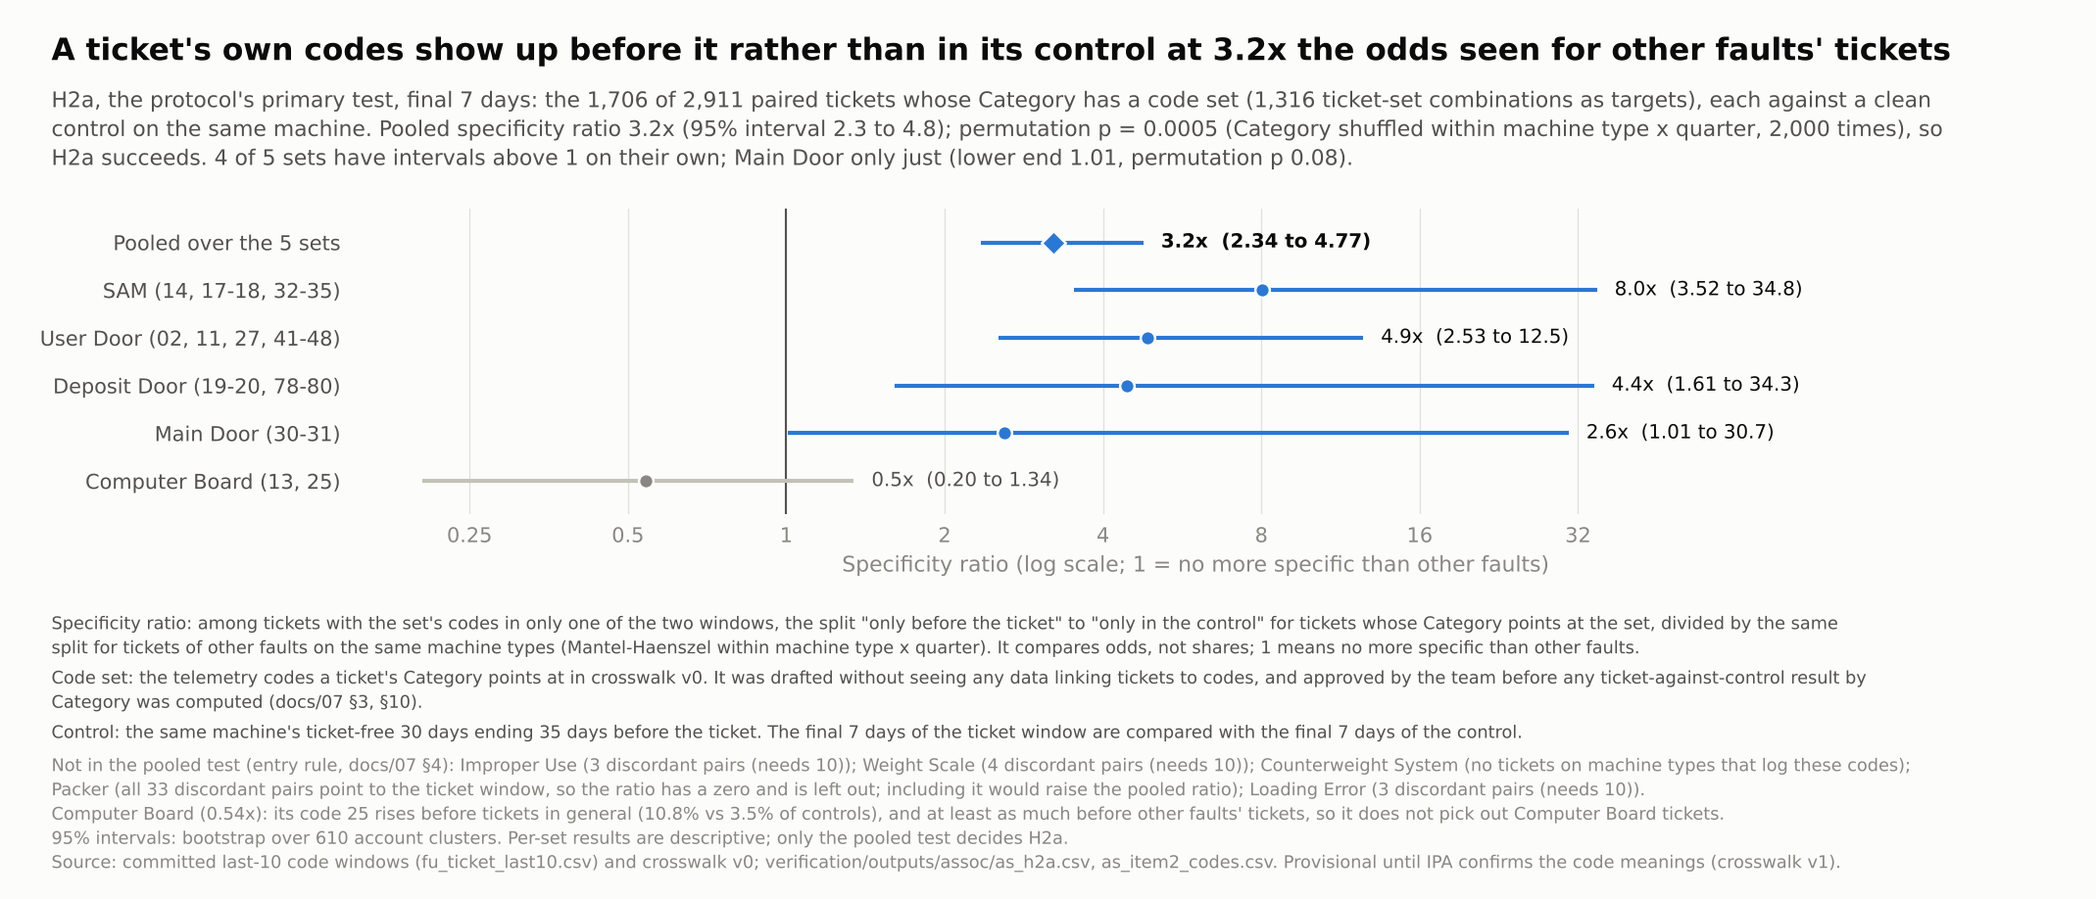
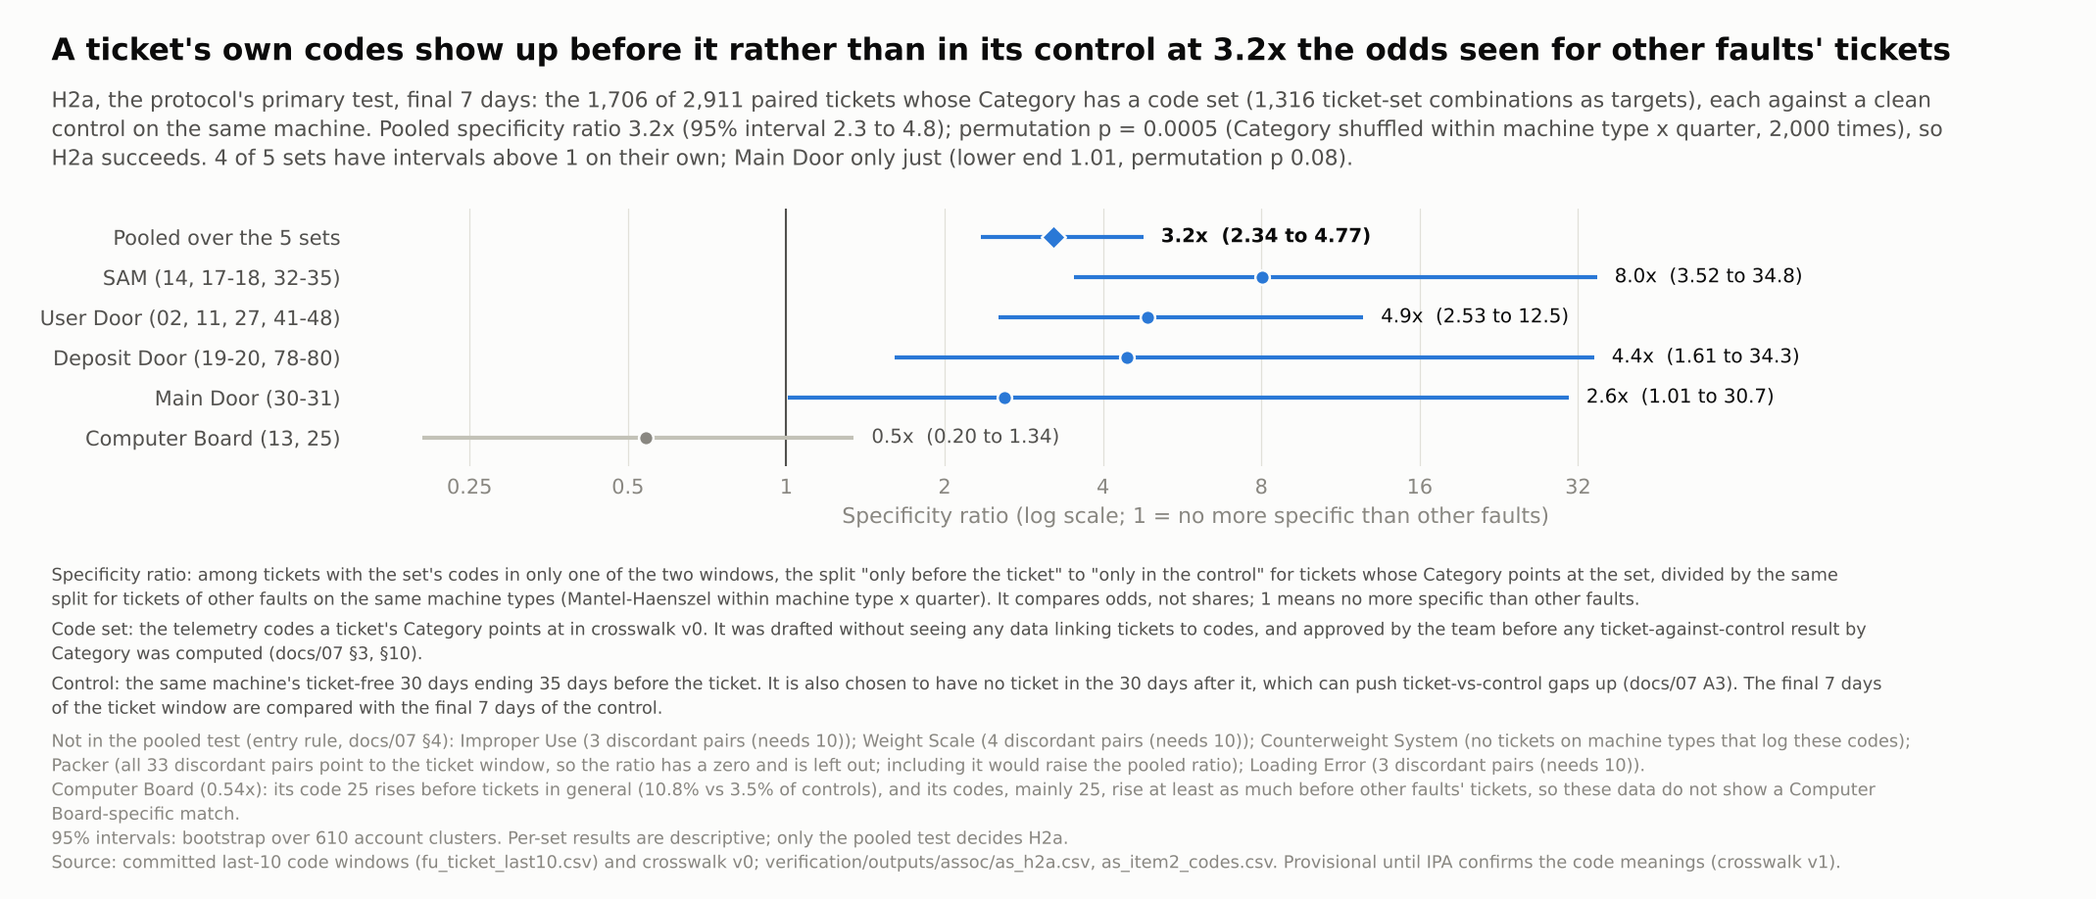
Association charts: apply the independent review's confirmed findings
Three reviewers (numbers, wording, readability), each finding re-checked by a separate
refuter; 21 of 41 survived and are applied here.
- as_05: title and subtitle state the item 4 figures as lower bounds ("at least",
  "if the control is a fair stand-in"), label the unrelated-set line exploratory and stop
  calling it a share of the blue line; y-axis names the measure; note that the 6 h figure
  is not a tighter whole-week bound; capped interval no longer runs into its label
- as_06: "every sensitivity variant run so far" (13 run, 11 drawn), with checks that the
  undrawn S3 upper-bound variants lie in range and above 1; pending S2/S12 explained
- as_07: title scoped to H1 and the per-set results; 267 split into 262 + 5 unknown type
- as_01: Computer Board note worded as "not shown", for the set (13, 25)
- as_02: linker precision note at 2 h and micro-averaged; series named at the 7-day end
  so the 30-day points no longer look like a legend
- as_08: span-rule wording for 146; only the door rows the title discusses are blue
- assoc.py: control definitions state the no-ticket-after selection (docs/07 A3); negative
  control, owed-to and sensitivity definitions match the protocol's scope
- docs/08 figure captions follow the new titles

Claude-Session: https://claude.ai/code/session_01XBD7pXL4msNy4bnuJzjzhZ

diff --git a/viz/association/assoc.py b/viz/association/assoc.py
@@ -20,8 +20,10 @@ K7, K30 = 168.0, 720.0
 TARGET_DEFINITION = ('Code set: the telemetry codes a ticket\'s Category points at in crosswalk v0. It was drafted '
                      'without seeing any data linking tickets to codes, and approved by the team before any '
                      'ticket-against-control result by Category was computed (docs/07 §3, §10).')
-CONTROL_DEFINITION = ('Control: the same machine\'s ticket-free 30 days ending 35 days before the ticket. The final 7 '
-                      'days of the ticket window are compared with the final 7 days of the control.')
+CONTROL_DEFINITION = ('Control: the same machine\'s ticket-free 30 days ending 35 days before the ticket. It is also '
+                      'chosen to have no ticket in the 30 days after it, which can push ticket-vs-control gaps up '
+                      '(docs/07 A3). The final 7 days of the ticket window are compared with the final 7 days of the '
+                      'control.')
 MOR_DEFINITION = ('Matched odds ratio: tickets with the codes present only before the ticket, divided by tickets with '
                   'them present only in the control. Above 1 means present before tickets more often.')
 SPECIFICITY_DEFINITION = ('Specificity ratio: among tickets with the set\'s codes in only one of the two windows, '
@@ -30,18 +32,22 @@ SPECIFICITY_DEFINITION = ('Specificity ratio: among tickets with the set\'s code
                           'machine types (Mantel-Haenszel within machine type x quarter). It compares odds, not '
                           'shares; 1 means no more specific than other faults.')
 RECENCY_CONTROL_DEFINITION = ('Control: the same machine\'s ticket-free 30 days ending 35 days before the ticket. '
-                              'Each point compares the same final span of both windows.')
+                              'It is also chosen to have no ticket in the 30 days after it, which can push '
+                              'ticket-vs-control gaps up (docs/07 A3). Each point compares the same final span of both '
+                              'windows.')
 BUCKET_DEFINITION = ('Bucket: the team\'s provisional grouping of telemetry codes (e.g. Door issue, Mechanical fault), not '
                      'yet confirmed by IPA. A bucket is present when any of its codes was logged in the window\'s final '
                      '7 days.')
-NEGATIVE_CONTROL_DEFINITION = ('Negative control: the stock-out codes (03, 77). No Category except Loading Error points '
-                               'at them, so they should not rise if the comparison is fair.')
+NEGATIVE_CONTROL_DEFINITION = ('Negative control: the stock-out codes (03, 77), which no Category except Loading Error '
+                               'points at. A rise would signal a generic "machine in trouble" or period effect; '
+                               'restocking visits can also log them (docs/07 §4).')
 OWED_DEFINITION = ('Share owed to whatever led to the ticket: of tickets with their own code set in the final 7 days, '
                    'the share with an own code in the final k hours that the control says would not otherwise be there, '
                    '(pT(k) - pC(k)) / pT(7 days). It is a lower bound if the control is valid, and it is not specific '
-                   'to the Category.')
+                   'to the Category: it counts everything that sets the final hours apart from the control, including '
+                   'codes the call itself produced.')
 SENSITIVITY_DEFINITION = ('Sensitivity check: the same pooled test re-run with one pre-specified change to the '
-                          'tickets, the windows or the clustering (docs/07 §6).')
+                          'tickets, the windows, the outcome coding, the code set or the clustering (docs/07 §6).')
 LOGS_DEFINITION = ('Logs its own code set: the ticket\'s machine type shows that code set in the clean control windows '
                    'of at least 5 other machines of the type (docs/07 A10). Otherwise the codes can neither confirm nor '
                    'contradict the Category.')

diff --git a/viz/association/as_05_signal_bounds.py b/viz/association/as_05_signal_bounds.py
@@ -43,16 +43,17 @@ def plot(out_dir=assoc.FIG_DIR):
     style.check('as_05 unrelated maximum = exploratory tightest bound', tight_u.estimate, y_unr.max(), 1e-9)
     style.check('as_05 week lower bound = (pT - pC) / pT at 7 days', week.estimate, y_own[-1], 1e-9)
     style.check('as_05 week upper bound = (1 - pC) / pT', week.upper_bound, min(1, (1 - week.pC) / week.pT), 1e-9)
-    title = (f'For {tight.estimate:.0%} of tickets with their own codes, the final {LABELS[tight.k]} hold one that '
-             f'would not otherwise be there; for unrelated codes, {tight_u.estimate:.0%}')
+    title = (f'For at least {tight.estimate:.0%} of tickets with their own codes, the final {LABELS[tight.k]} hold one '
+             f'that would not otherwise be there; for unrelated codes (exploratory), {tight_u.estimate:.0%}')
 
     fig, ax = style.figure(max(10.5, 0.12 * len(title) + 2 * style.MARGIN), 6.2)
     x = np.arange(len(own))
     ax.plot(x, 100 * y_own, color=style.BLUE, lw=2, marker='o', ms=6, zorder=3)
     ax.plot(x, 100 * y_unr, color=style.GRAY, lw=2, marker='o', ms=6, zorder=2)
-    ax.vlines(x[j], 100 * tight.ci_lo, 100 * tight.ci_hi, color=style.BLUE, lw=2, zorder=3)
+    ax.errorbar(x[j], 100 * y_own[j], yerr=[[100 * (y_own[j] - tight.ci_lo)], [100 * (tight.ci_hi - y_own[j])]],
+                fmt='none', ecolor=style.BLUE, elinewidth=2, capsize=4, zorder=3)
     for xi, a in zip(x, y_own):
-        ax.text(xi, 100 * a + 2.5, f'{a:.0%}', ha='center', va='bottom', fontsize=9.5,
+        ax.text(xi, 100 * (tight.ci_hi if xi == x[j] else a) + 2.5, f'{a:.0%}', ha='center', va='bottom', fontsize=9.5,
                 color=style.INK, weight='bold' if xi == x[j] else 'normal')
     for xi, a in zip(x, y_unr):
         ax.text(xi, 100 * a - 2.5, f'{a:.0%}', ha='center', va='top', fontsize=9.5, color=style.INK2)
@@ -77,16 +78,19 @@ def plot(out_dir=assoc.FIG_DIR):
     style.pct_axis(ax.yaxis)
     style.style_axes(ax, grid='y', baseline='bottom')
     ax.set_xlabel('Final span before the ticket')
-    ax.set_ylabel('Share of tickets with own codes in 7 days')
+    ax.set_ylabel('Share owed to whatever\nled to the ticket')
     style.frame(
         fig, title,
         f'Base: the {int(week.n_pairs):,} tickets whose Category has a code set their machine type logs, counting those '
-        f'with an own code in the final 7 days ({week.pT:.0%} of them). The blue line peaks at {LABELS[tight.k]} '
-        f'({tight.estimate:.0%}, 95% {tight.ci_lo:.0%} to {tight.ci_hi:.0%}); the gray line shows how much of it any '
-        f'code set would show before a ticket. Over the whole week, between {week.estimate:.0%} and '
+        f'with an own code in the final 7 days ({week.pT:.0%} of them). The blue line, a lower bound, peaks at '
+        f'{LABELS[tight.k]} ({tight.estimate:.0%}, 95% {tight.ci_lo:.0%} to {tight.ci_hi:.0%}); the gray line is the '
+        f'same measure for codes of unrelated sets on the same tickets (exploratory), a rough guide to generic activity '
+        f'before any ticket. If the control is a fair stand-in, over the whole week between {week.estimate:.0%} and '
         f'{week.upper_bound:.0%} of these tickets would have had no own code at all without whatever led to the ticket.',
         definitions=[assoc.OWED_DEFINITION, assoc.TARGET_DEFINITION, assoc.RECENCY_CONTROL_DEFINITION],
-        notes=['The peak is the best of six windows, which makes it slightly optimistic. Bounds, not estimates: both '
+        notes=[f'The {LABELS[tight.k]} figure is not a tighter version of the whole-week {week.estimate:.0%}: some of '
+               f'these tickets would still have had an own code earlier in the week. '
+               'The peak is the best of six windows, which makes it slightly optimistic. Bounds, not estimates: both '
                'assume the control is a fair stand-in, and docs/07 A3 lists two ways it may not be, pushing in '
                'opposite directions. Whether the codes match the Category is H2a (chart as_01).',
                assoc.source('item4')])

diff --git a/viz/association/as_02_recency.py b/viz/association/as_02_recency.py
@@ -56,22 +56,24 @@ def plot(out_dir=assoc.FIG_DIR):
              f'{first.pC:.0%} of controls')
 
     fig, ax = style.figure(max(10.5, 0.12 * len(title) + 2 * style.MARGIN), 6.2)
-    x = np.arange(len(t))
+    x = np.arange(len(t), dtype=float)
     line = (t.k <= assoc.K7).to_numpy()  # k <= 7 d: one fixed set of pairs; 30 d: last-10 list, drawn apart
+    x[~line] += 1.2  # room for the series names between the 7-day end and the 30-day column
     ax.plot(x[line], 100 * t.pT[line], color=style.BLUE, lw=2, marker='o', ms=6, zorder=3)
     ax.plot(x[line], 100 * t.pC[line], color=style.GRAY, lw=2, marker='o', ms=6, zorder=2)
     ax.scatter(x[~line], 100 * t.pT[~line], s=40, facecolors=style.SURFACE, edgecolors=style.BLUE, linewidths=2,
                zorder=3)
     ax.scatter(x[~line], 100 * t.pC[~line], s=40, facecolors=style.SURFACE, edgecolors=style.GRAY, linewidths=2,
                zorder=2)
-    for xi, a, b in zip(x, t.pT, t.pC):
+    for xi, a, b, lin in zip(x, t.pT, t.pC, line):
         ax.text(xi, 100 * a + 2.5, f'{a:.0%}', ha='center', va='bottom', fontsize=9.5, color=style.INK)
-        ax.text(xi, 100 * b - 3, f'{b:.0%}', ha='center', va='top', fontsize=9.5, color=style.INK2)
-    ax.text(x[-1] + 0.15, 100 * t.pT.iloc[-1], 'Before the ticket', color=style.BLUE, va='center', fontsize=10)
-    ax.text(x[-1] + 0.15, 100 * t.pC.iloc[-1], 'Control, 35 days earlier', color=style.INK2, va='center', fontsize=10)
+        ax.text(xi, 100 * b - (3 if lin else 4.5), f'{b:.0%}', ha='center', va='top', fontsize=9.5, color=style.INK2)
+    xe = x[line][-1] + 0.2
+    ax.text(xe, 100 * t.pT[line].iloc[-1], 'Before the ticket', color=style.BLUE, va='center', fontsize=10)
+    ax.text(xe, 100 * t.pC[line].iloc[-1], 'Control, 35 days earlier', color=style.INK2, va='center', fontsize=10)
     ax.set_xticks(x)
     ax.set_xticklabels([LABELS[k] if k <= assoc.K7 else '30 days\n(last-10 list)' for k in t.k], color=style.INK2)
-    ax.set_xlim(-0.4, len(t) + 1.4)
+    ax.set_xlim(-0.4, x[-1] + 0.6)
     ax.set_ylim(-8, 90)
     style.pct_axis(ax.yaxis)
     style.style_axes(ax, grid='y', baseline='bottom')
@@ -95,9 +97,10 @@ def plot(out_dir=assoc.FIG_DIR):
                f'dropped from both windows, the set is present within 6 hours before {g30.p_guard:.0%} of tickets and '
                f'{g30.p_control_guard_lo:.0%}-{g30.p_control_guard_hi:.0%} of controls, and the guard bands leave the '
                f'pooled H2a result of chart as_01 at {g_lo:.1f}x to {g_hi:.1f}x.',
-               f'For a linker (exploratory): among tickets showing a set\'s codes in the final 30 minutes, '
-               f'{mr.loc[(0.5, "ticket"), "precision"]:.0%} have the matching Category (control windows '
-               f'{mr.loc[(0.5, "control"), "precision"]:.0%}); over 7 days, '
+               f'For a linker (exploratory; micro-averaged over code sets, so a ticket counts once for each set '
+               f'whose codes it shows): of the set-code hits in the final 2 hours, '
+               f'{mr.loc[(2.0, "ticket"), "precision"]:.0%} are on tickets whose Category points at that set (control '
+               f'windows {mr.loc[(2.0, "control"), "precision"]:.0%}); over 7 days, '
                f'{mr.loc[(assoc.K7, "ticket"), "precision"]:.0%} ({mr.loc[(assoc.K7, "control"), "precision"]:.0%}). '
                f'The short look-back is more precise but finds the codes for fewer tickets (the blue line).',
                assoc.source('recency', 'item4', 'guard', 'match_rates')])

diff --git a/viz/association/as_06_robustness.py b/viz/association/as_06_robustness.py
@@ -59,8 +59,13 @@ def plot(out_dir=assoc.FIG_DIR):
     up = [row(s, p, assoc.K7)[0] for p in ('S3 guard 0.5 h, control upper', 'S3 guard 1 h, control upper')]
     s4 = row(s, 'S4 ', assoc.K30)
     style.check('as_06 S4 at 30 days reaches 1', 1, int(np.exp(s4[1]) < 1))
-    title = (f'At 7 days the main result holds in all {len(rows) - 1} sensitivity variants run so far: the pooled '
-             f'specificity ratio stays between {ratios.min():.1f}x and {ratios.max():.1f}x')
+    ran = s[(s.k == assoc.K7) & s.h2a.notna() & (s.variant != 'primary')]
+    style.check('as_06 variants run = drawn + the two S3 upper-bound rows', len(rows) - 1 + 2, len(ran))
+    style.check('as_06 every variant run has its interval above 1', 1, int((np.exp(ran.h2a_lo) > 1).all()))
+    style.check('as_06 undrawn variants inside the drawn range', 1,
+                int(ratios.min() <= np.exp(ran.h2a).min() and np.exp(ran.h2a).max() <= ratios.max()))
+    title = (f'At 7 days the main result holds in every sensitivity variant run so far: the pooled specificity ratio '
+             f'stays between {ratios.min():.1f}x and {ratios.max():.1f}x')
 
     n = len(rows)
     fig, ax = style.figure(max(11.0, 0.12 * len(title) + 2 * style.MARGIN), 3.4 + 0.42 * n)
@@ -94,8 +99,9 @@ def plot(out_dir=assoc.FIG_DIR):
                f'{np.exp(up[0]):.2f}x and {np.exp(up[1]):.2f}x. Truncated windows (S6): most added pairs have a control '
                f'window with no events at all, so this mainly checks that empty controls do not reverse the result.',
                f'At 30 days (secondary) one check reaches 1: the ticket-free lead-in (S4) gives {np.exp(s4[0]):.2f}x '
-               f'({np.exp(s4[1]):.2f} to {np.exp(s4[2]):.2f}). Pending: text-flag exclusions (S2), the interval-based '
-               f'clean rule (S10) and crosswalk v1 (S12). S9 (ticket side only) and S11 (calendar drift) give no ratio.',
+               f'({np.exp(s4[1]):.2f} to {np.exp(s4[2]):.2f}). Pending: text-flag exclusions (S2, the check on agreement '
+               f'built in if technicians read clearView when setting Category), the interval-based clean rule (S10) '
+               f'and crosswalk v1 with IPA\'s code meanings (S12). S9 (ticket side only) and S11 (calendar drift) give no ratio.',
                assoc.source('sensitivities', 'h2a')])
     return [style.save(fig, out_dir / PNG)]
 

diff --git a/viz/association/as_07_coverage.py b/viz/association/as_07_coverage.py
@@ -61,6 +61,7 @@ def plot(out_dir=assoc.FIG_DIR):
     gap = (alltypes - emit.reindex(alltypes.index).fillna(0)).astype(int)
     by_fam = gap.groupby([family(t) for t in gap.index]).sum()
     by_fam = by_fam[by_fam > 0].sort_values(ascending=False)
+    n_unk = int(gap.get('Unknown', 0))
     style.check('as_07 not checkable = mapped - checkable', mapped - checkable, int(by_fam.sum()))
     xw = pd.read_csv(assoc.ROOT / 'verification' / 'reference' / 'crosswalk_v0.csv', dtype=str,
                      keep_default_na=False).set_index('category')
@@ -69,8 +70,8 @@ def plot(out_dir=assoc.FIG_DIR):
     miss = {c: (int(n - checked.get(xw.loc[c, 'target_codes'], 0)), int(n)) for c, n in per_cat.items()}
     top = sorted(miss.items(), key=lambda kv: -kv[1][0])[:3]
     share = scrubex / checkable
-    title = (f'The Category results rest on {checkable:,} of {paired:,} tickets, {share:.0%} of them on scrubex '
-             f'machines')
+    title = (f'H1 and the per-set results rest on {checkable:,} of {paired:,} tickets, {share:.0%} of them on '
+             f'scrubex machines')
 
     stages = [(f'{paired:,} tickets with a clean control, final 7 days', paired, False),
               (f'{mapped:,} whose Category has a code set', mapped, False),
@@ -93,8 +94,9 @@ def plot(out_dir=assoc.FIG_DIR):
     style.frame(
         fig, title,
         f'{paired - mapped:,} tickets have a Category with no code set (Touchscreen, Curtain, No Trouble Found, power, '
-        f'network and others) or no Category, so the codes cannot speak to them. Of the {mapped:,} that have one, {mapped - checkable} are on '
-        f'machine types that do not log it. The rest, the base of H1 and of every per-set result, are almost all on '
+        f'network and others) or no Category, so the codes cannot speak to them. Of the {mapped:,} that have one, '
+        f'{mapped - checkable} cannot be checked: {mapped - checkable - n_unk} are on machine types that do not log it '
+        f'and {n_unk} are of unknown type. The rest, the base of H1 and of every per-set result, are almost all on '
         f'scrubex machines.',
         definitions=[assoc.LOGS_DEFINITION, assoc.TARGET_DEFINITION, assoc.CONTROL_DEFINITION],
         notes=[f'Mapped tickets that cannot be checked, by family: {fam_txt}. Most affected Categories: {cat_txt}. '

diff --git a/viz/association/as_08_breakdowns.py b/viz/association/as_08_breakdowns.py
@@ -59,8 +59,10 @@ def plot(out_dir=assoc.FIG_DIR):
     y = np.arange(n)[::-1].astype(float)
     y[3:] -= 0.4  # a gap between the door and electronics groups
     for yi, (lab, pt, pc, mor, npairs, ref) in zip(y, rows):
-        col = style.GRAY if ref else style.BLUE
-        ax.hlines(yi, pc * 100, pt * 100, color=style.GRAY_LIGHT if ref else style.BLUE, lw=2, zorder=1)
+        hot = not ref and lab.startswith('Door')  # colour only what the title talks about
+        col = style.BLUE if hot else style.GRAY
+        ax.hlines(yi, pc * 100, pt * 100, color=style.BLUE if hot else style.GRAY if not ref else style.GRAY_LIGHT,
+                  lw=2, zorder=1)
         ax.scatter(pc * 100, yi, s=55, color=style.GRAY, edgecolors=style.SURFACE, linewidths=1.2, zorder=2)
         ax.scatter(pt * 100, yi, s=55, color=col, edgecolors=style.SURFACE, linewidths=1.2, zorder=3)
         ax.text(66, yi, f'{pt:.1%} vs {pc:.1%}   OR {mor:.1f}   ({npairs:,} tickets)', va='center', ha='left',
@@ -87,7 +89,7 @@ def plot(out_dir=assoc.FIG_DIR):
                f'there is no clear No Trouble Found door difference ({ntf30.pT:.1%} vs {ntf30.pC:.1%}); the '
                f'cancelled row is small.',
                'Repeat tickets: the 157 tickets left out because another ticket on the machine opened in the 5 days '
-               'before them (146 with a determinable 7-day window). Their window contains the earlier ticket and '
+               'before them (146 after the span rule and the 7-day determination). Their window contains the earlier ticket and '
                'possibly its service visit, so their codes may come from the earlier fault or its repair as much as '
                'from the new call.',
                assoc.source('item2_buckets', 'item2_breakdowns', 'sensitivities')])

diff --git a/viz/association/as_01_specificity_by_set.py b/viz/association/as_01_specificity_by_set.py
@@ -100,8 +100,9 @@ def plot(out_dir=assoc.FIG_DIR):
     style.check('as_01 code 25 OR = b / c', c25.mor, c25.b / c25.c, 1e-9)
     cb = entered[entered.categories == 'Computer Board']
     cb_note = (f'Computer Board ({cb.estimate_x.iloc[0]:.2f}x): its code 25 rises before tickets in general '
-               f'({c25.pT:.1%} vs {c25.pC:.1%} of controls), and at least as much before '
-               f'other faults\' tickets, so it does not pick out Computer Board tickets.') if len(cb) else None
+               f'({c25.pT:.1%} vs {c25.pC:.1%} of controls), and its codes, mainly 25, rise at least as much '
+               f'before other faults\' tickets, so these data do not show a Computer Board-specific match.') \
+        if len(cb) else None
     style.frame(
         fig, title,
         f'H2a, the protocol\'s primary test, final 7 days: the {mapped:,} of 2,911 paired tickets whose Category has a '

diff --git a/docs/08_association_results.md b/docs/08_association_results.md
@@ -407,9 +407,9 @@ part of this is generic too. Counts cover only codes in the last-10 list.
 ![A ticket's own codes appear in its final 30 minutes for 23% of tickets, against 2% of controls](../viz/figures/as_02_recency.png)
 ![5 of 6 code sets are clearly more often present before their tickets; Computer Board is not shown to be](../viz/figures/as_03_enrichment_by_set.png)
 ![Electronics codes appear before 13% of tickets against 5% of controls; stock-out codes, the negative control, do not rise](../viz/figures/as_04_bucket_enrichment.png)
-![For 49% of tickets with their own codes, the final 6 h hold one that would not otherwise be there; for unrelated codes, 20%](../viz/figures/as_05_signal_bounds.png)
-![At 7 days the main result holds in all 11 sensitivity variants run so far: the pooled specificity ratio stays between 2.3x and 3.5x](../viz/figures/as_06_robustness.png)
-![The Category results rest on 1,439 of 2,911 tickets, 97% of them on scrubex machines](../viz/figures/as_07_coverage.png)
+![For at least 49% of tickets with their own codes, the final 6 h hold one that would not otherwise be there; for unrelated codes (exploratory), 20%](../viz/figures/as_05_signal_bounds.png)
+![At 7 days the main result holds in every sensitivity variant run so far: the pooled specificity ratio stays between 2.3x and 3.5x](../viz/figures/as_06_robustness.png)
+![H1 and the per-set results rest on 1,439 of 2,911 tickets, 97% of them on scrubex machines](../viz/figures/as_07_coverage.png)
 ![Door codes rise before No Trouble Found and cancelled tickets about as much as before all tickets (+11.5 and +13.5 points, against +11.5)](../viz/figures/as_08_breakdowns.png)
 
 ## Privacy
